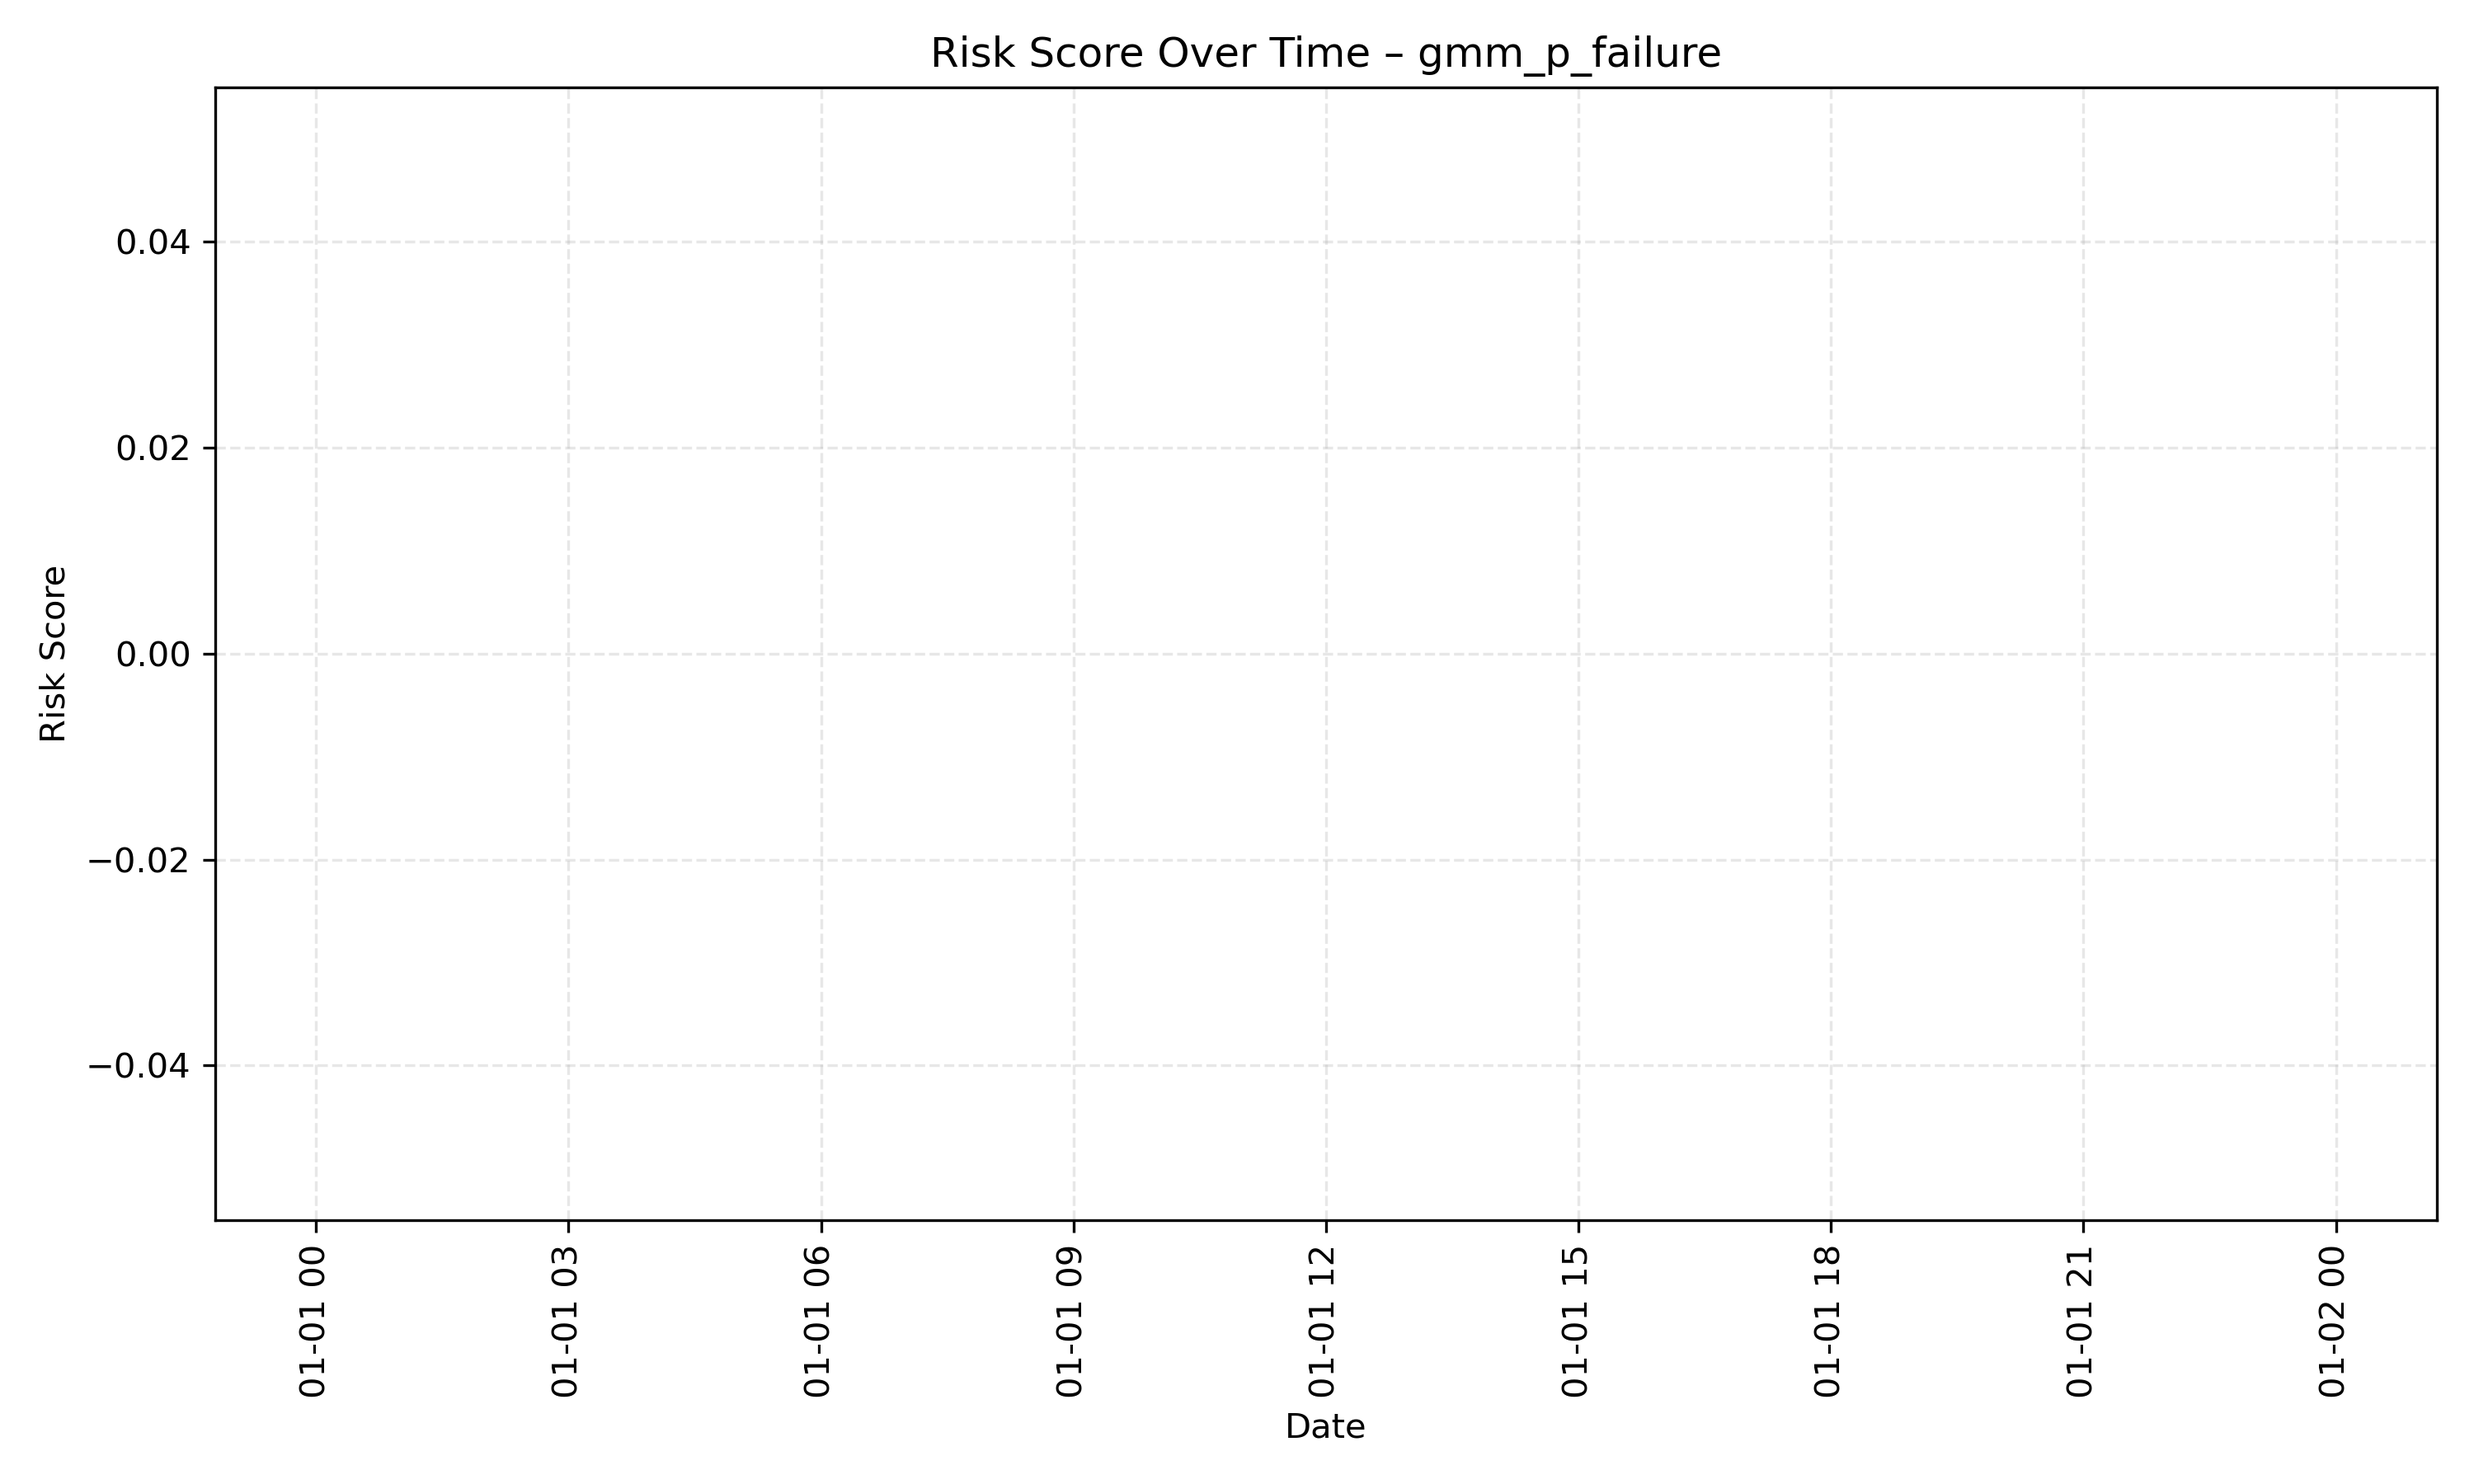
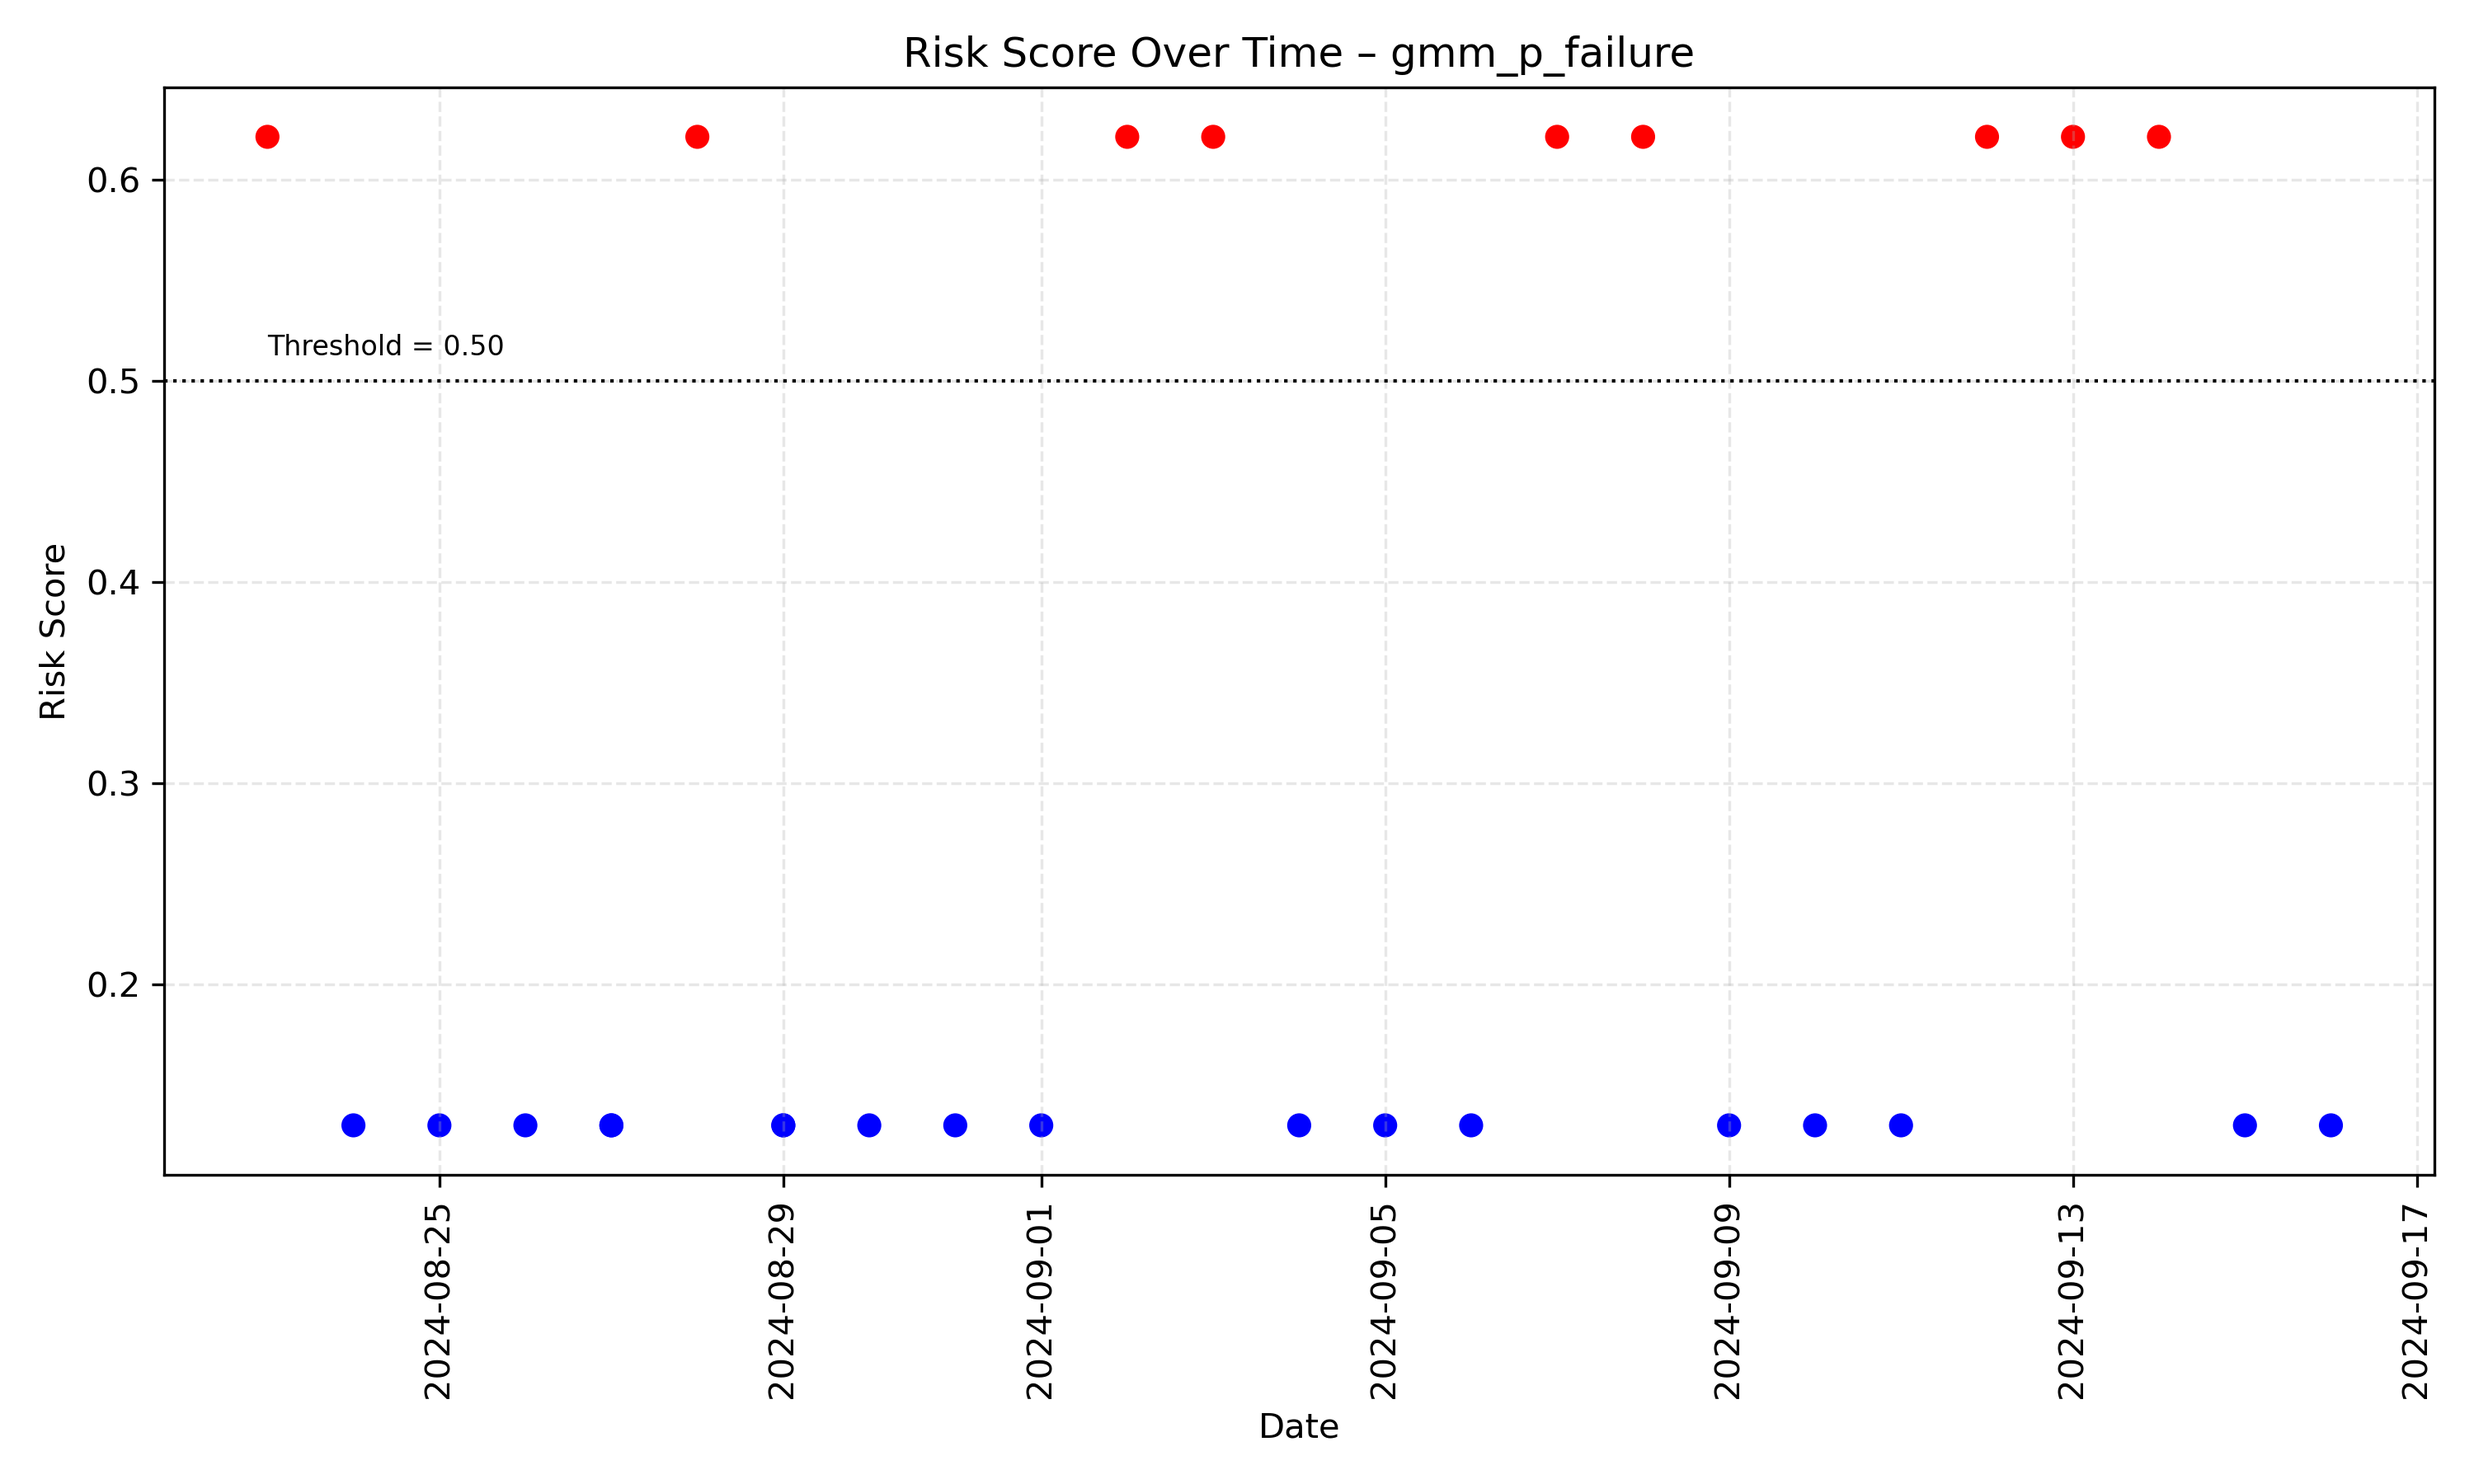
update predicter.py, new outputs

diff --git a/case_studies/batch_summary_tool/predict_new_batch_risks.py b/case_studies/batch_summary_tool/predict_new_batch_risks.py
@@ -53,7 +53,7 @@ def merge_new_data(batch_df, coa_df):
 # ============================================
 # Function: Apply risk models to new data
 # ============================================
-def apply_models(df, model_dict, features, method_label, cluster_map=None):
+def apply_models(df, model_dict, features, method_label, flag_threshold=0.5, cluster_map=None):
     '''
     Predict P(failure) using a trained model and scaler.
 
@@ -87,7 +87,7 @@ def apply_models(df, model_dict, features, method_label, cluster_map=None):
             df['logreg_p_failure'] = p_failure
 
         # Apply generic threshold logic
-        df[f'{method_label}_risk_flag'] = df[f'{method_label}_p_failure'] > 0.75
+        df[f'{method_label}_risk_flag'] = df[f'{method_label}_p_failure'] > flag_threshold
 
     except Exception as e:
         print(f"Error in {method_label} prediction: {e}")
@@ -113,12 +113,9 @@ def append_to_log(df, log_path, features_to_log):
     except Exception as e:
         print(f"Write error: {e}")
 
-# ============================================
-# Function: Plot time series of risk scores
-# ============================================
-def plot_risk_trend(df, score_col, flag_col, output_path):
+def plot_risk_trend(df, score_col, flag_col, output_path, threshold_line=None):
     '''
-    Plot time-series of risk scores with color-coded flags.
+    Plot time-series of risk scores with color-coded flags and optional threshold line.
     '''
     try:
         df['date'] = pd.to_datetime(df['date'])
@@ -127,11 +124,20 @@ def plot_risk_trend(df, score_col, flag_col, output_path):
         colors = df[flag_col].map({True: 'red', False: 'blue'})
         plt.figure(figsize=(10, 6))
         plt.scatter(df['date'], df[score_col], c=colors)
+
         plt.xlabel('Date')
         plt.ylabel('Risk Score')
         plt.title(f'Risk Score Over Time – {score_col}')
         plt.grid(True, linestyle='--', alpha=0.3)
         plt.xticks(rotation=90)
+
+        # Plot threshold line
+        if threshold_line is not None:
+            plt.axhline(y=threshold_line, color='black', linestyle=':', linewidth=1)
+            plt.text(df['date'].min(), threshold_line + 0.01,
+                     f'Threshold = {threshold_line:.2f}',
+                     fontsize=8, color='black', va='bottom')
+
         plt.tight_layout()
         plt.savefig(output_path, dpi=300)
         plt.close()
@@ -153,6 +159,9 @@ def main():
 
     test_dir = os.path.join(base_dir, 'test_data')
     output_dir = os.path.join(base_dir, 'output')
+
+    # ===== USER: Update flag threshold for risk scoring
+    flag_thresh = 0.5  # Threshold for risk flagging
 
     # Load new batch and COA
     batch_path = os.path.join(test_dir, 'Test_Batch_Log.csv')
@@ -184,11 +193,13 @@ def main():
 
     import json
     with open(cluster_map_path, 'r') as f:
-        gmm_cluster_map = json.load(f)
+        raw_map = json.load(f)
+        gmm_cluster_map = {int(k): v for k, v in raw_map.items()}
+
 
     # Predict risk using both models
-    df = apply_models(df, gmm_model, features, 'gmm', cluster_map=gmm_cluster_map)
-    df = apply_models(df, logreg_model, features, 'logreg')
+    df = apply_models(df, gmm_model, features, 'gmm', flag_threshold=flag_thresh, cluster_map=gmm_cluster_map)
+    df = apply_models(df, logreg_model, features,'logreg', flag_threshold=flag_thresh)
 
     # Append to log
     history_log = os.path.join(output_dir, 'batch_history_log.csv')
@@ -199,9 +210,9 @@ def main():
 
     # Save plots
     plot_risk_trend(df, 'gmm_p_failure', 'gmm_risk_flag',
-                    os.path.join(output_dir, 'risk_trend_gmm.png'))
+                    os.path.join(output_dir, 'risk_trend_gmm.png'), threshold_line=flag_thresh)
     plot_risk_trend(df, 'logreg_p_failure', 'logreg_risk_flag',
-                    os.path.join(output_dir, 'risk_trend_logreg.png'))
+                    os.path.join(output_dir, 'risk_trend_logreg.png'), threshold_line=flag_thresh)
 
     print("Risk scoring complete.")
 
